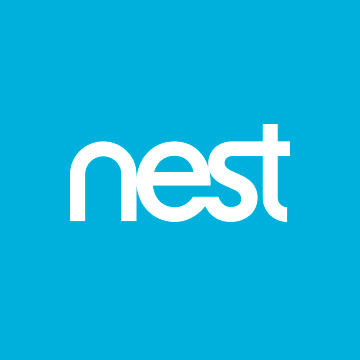
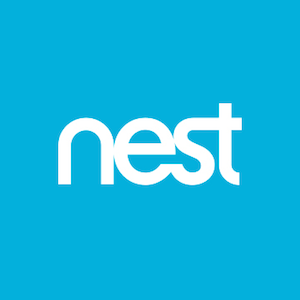
made the images smaller and converted to jpg.

diff --git a/index.html b/index.html
@@ -68,7 +68,7 @@
         </style>
         <div class="title">
             <div class="title-box">
-                <img class="img-circle" src="images/raemond.png"/>
+                <img class="img-circle" src="images/raemond-small.jpg"/>
                 <h2 class="subtitle mdl-color-text--grey-600">Raemond</h2>
                 <div class="subtitle">
                     <a style="margin:5px" href="https://github.com/RaemondBW">
@@ -87,7 +87,7 @@
             <div class="content-grid mdl-grid">
                 <div class="mdl-card mdl-cell mdl-cell--4-col mdl-cell--4-col-tablet mdl-cell--4-col-phone mdl-shadow--3dp">
                     <figure class="mdl-card__media">
-                        <img src="images/thermostat_lifestyle_1.jpg" alt="" />
+                        <img src="images/thermostat_lifestyle_1-small.jpg" alt="" />
                     </figure>
                     <div class="mdl-card__title">
                         <h2 class="mdl-card__title-text">Nest RF Engineer</h2>
@@ -103,7 +103,7 @@
                 </div>
                 <div class="mdl-card mdl-cell mdl-cell--4-col mdl-cell--4-col-tablet mdl-cell--4-col-phone mdl-shadow--3dp">
                     <figure class="mdl-card__media">
-                        <img src="images/berkeley.jpg" alt="" />
+                        <img src="images/berkeley-small.jpg" alt="" />
                     </figure>
                     <div class="mdl-card__title">
                         <h2 class="mdl-card__title-text">UC Berkeley EECS</h2>
@@ -162,7 +162,7 @@
                 </div>
                 <div class="mdl-card mdl-cell mdl-cell--4-col mdl-cell--4-col-tablet mdl-cell--4-col-phone mdl-shadow--3dp">
                     <figure class="mdl-card__media">
-                        <img src="images/nReduce.png" alt="" />
+                        <img src="images/nReduce.jpg" alt="" />
                     </figure>
                     <div class="mdl-card__title">
                         <h2 class="mdl-card__title-text">nReduce - online free startup incubator</h2>
